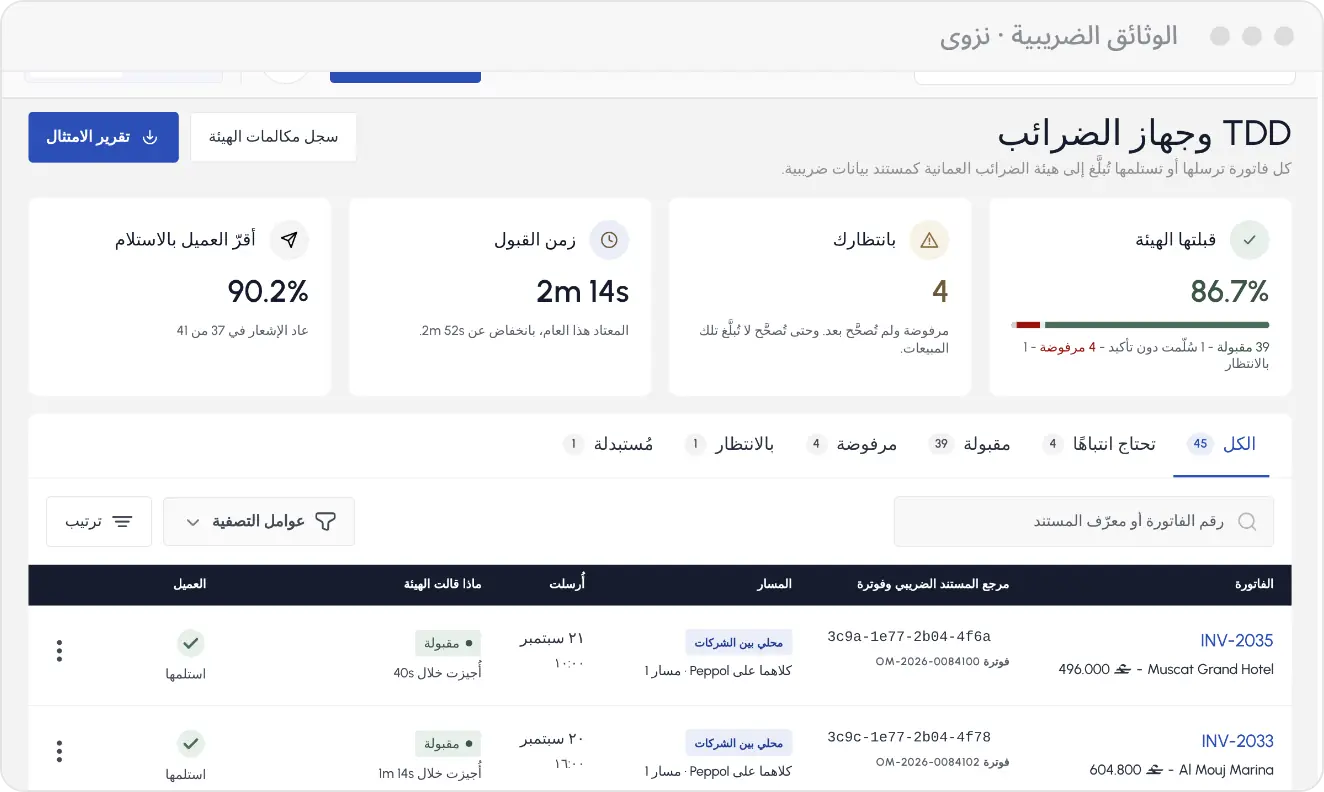
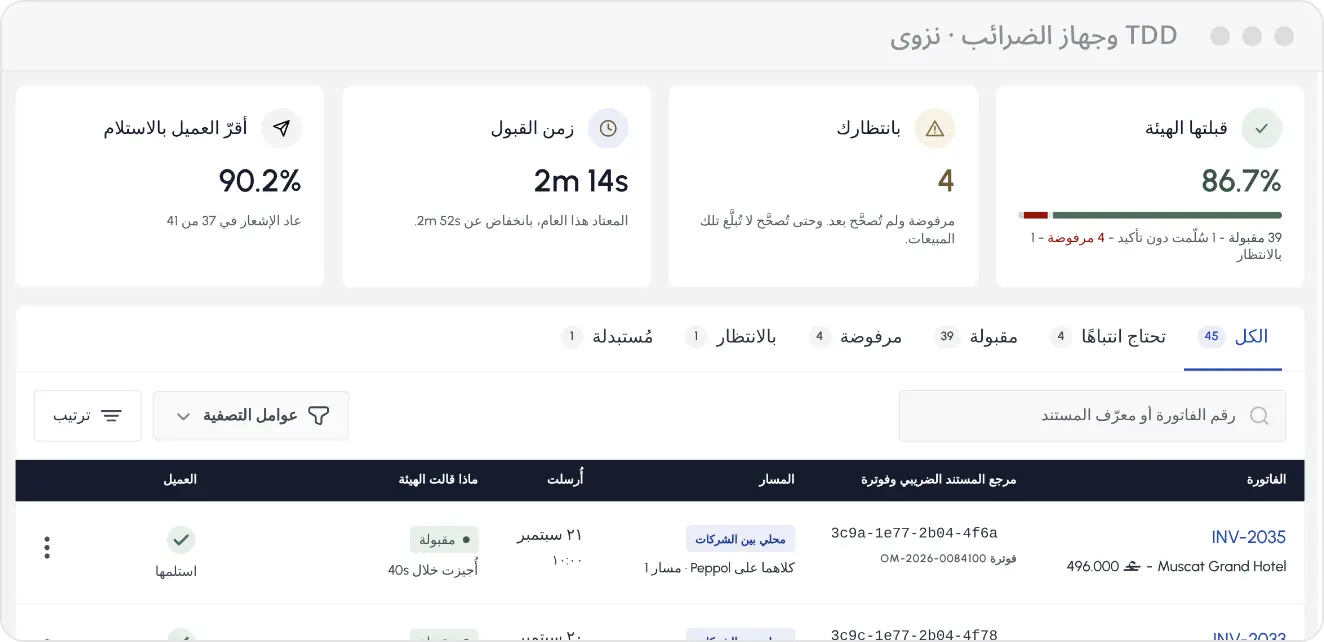
Features: real, focused screens on every row; journey and team rows
Each row now shows a cropped part of a live screen in English and Arabic instead of a whole page,
so the text stays readable. The three drawn mock-ups (invoice, find, numbers) are replaced by real
screens: an invoice's lines and totals, the invoices list with every payment state and Peppol reply,
and the dashboard. Tax Authority gains the invoice journey (reported to the OTA, delivered over
Peppol, each step timed). Company and team now shows Branches and inviting someone with a role;
the ERP diagram row is gone and ERP becomes a tile. Two invoicing claims the app does not have
(quotations, customer signature) are replaced with ones it does.

Claude-Session: https://claude.ai/code/session_01FLCAFF6j1WgFwmb84NnMZ4

diff --git a/src/pages/SitePages/FeaturesPage.tsx b/src/pages/SitePages/FeaturesPage.tsx
@@ -1,36 +1,42 @@
 import { useEffect, useRef, useState } from 'react'
 import { useTranslation } from 'react-i18next'
-import { ErpFlow } from '../HomePage/Audience'
 import { FeatureIcon } from './FeatureIcon'
 import { Steps } from '../HomePage/HomePage'
 import { QrSection } from '../HomePage/QrSection'
 import tillShot from '../../assets/site/feature-till.webp'
-import invoiceShot from '../../assets/site/feature-invoice.webp'
 import stockShot from '../../assets/site/feature-stock.webp'
-import findShot from '../../assets/site/feature-find.webp'
-import numbersShot from '../../assets/site/feature-numbers.webp'
-import billsShot from '../../assets/site/feature-bills.webp'
-import billsShotAr from '../../assets/site/feature-bills-ar.webp'
-import paymentsShot from '../../assets/site/feature-payments.webp'
-import paymentsShotAr from '../../assets/site/feature-payments-ar.webp'
-import tddShot from '../../assets/site/feature-tdd.webp'
-import tddShotAr from '../../assets/site/feature-tdd-ar.webp'
+import invoiceShot from '../../assets/site/feature-invoice.webp'
+import invoiceShotAr from '../../assets/site/feature-invoice-ar.webp'
+import invoicesShot from '../../assets/site/feature-invoices.webp'
+import invoicesShotAr from '../../assets/site/feature-invoices-ar.webp'
 import customersShot from '../../assets/site/feature-customers.webp'
 import customersShotAr from '../../assets/site/feature-customers-ar.webp'
 import periodicShot from '../../assets/site/feature-periodic.webp'
 import periodicShotAr from '../../assets/site/feature-periodic-ar.webp'
+import billsShot from '../../assets/site/feature-bills.webp'
+import billsShotAr from '../../assets/site/feature-bills-ar.webp'
+import paymentsShot from '../../assets/site/feature-payments.webp'
+import paymentsShotAr from '../../assets/site/feature-payments-ar.webp'
 import recurringShot from '../../assets/site/feature-recurring.webp'
 import recurringShotAr from '../../assets/site/feature-recurring-ar.webp'
 import supplierNotesShot from '../../assets/site/feature-supplier-notes.webp'
 import supplierNotesShotAr from '../../assets/site/feature-supplier-notes-ar.webp'
+import tddShot from '../../assets/site/feature-tdd.webp'
+import tddShotAr from '../../assets/site/feature-tdd-ar.webp'
+import journeyShot from '../../assets/site/feature-journey.webp'
+import journeyShotAr from '../../assets/site/feature-journey-ar.webp'
 import archiveShot from '../../assets/site/feature-archive.webp'
 import archiveShotAr from '../../assets/site/feature-archive-ar.webp'
+import dashboardShot from '../../assets/site/feature-dashboard.webp'
+import dashboardShotAr from '../../assets/site/feature-dashboard-ar.webp'
 import vatShot from '../../assets/site/feature-vat.webp'
 import vatShotAr from '../../assets/site/feature-vat-ar.webp'
 import cashShot from '../../assets/site/feature-cash.webp'
 import cashShotAr from '../../assets/site/feature-cash-ar.webp'
 import branchesShot from '../../assets/site/feature-branches.webp'
 import branchesShotAr from '../../assets/site/feature-branches-ar.webp'
+import teamShot from '../../assets/site/feature-team.webp'
+import teamShotAr from '../../assets/site/feature-team-ar.webp'
 import wave1 from '../../assets/site/wave-1.svg'
 import wave2 from '../../assets/site/wave-2.svg'
 import wave3 from '../../assets/site/wave-3.svg'
@@ -66,18 +72,20 @@ type RowKey =
   | 'recurring'
   | 'supplierNotes'
   | 'tdd'
+  | 'journey'
   | 'archive'
   | 'dashboard'
   | 'vatReport'
   | 'cashFlow'
-  | 'erp'
   | 'branches'
-type Row = { key: RowKey; shot?: string; shotAr?: string; wave?: string }
+  | 'team'
+type Row = { key: RowKey; shot: string; shotAr?: string; wave?: string }
+/** Every picture is a cropped live screen from the mock API, English and Arabic (owner, 4 Nov 2026). */
 const ROWS: Row[] = [
   { key: 'till', shot: tillShot, wave: wave1 },
   { key: 'stock', shot: stockShot },
-  { key: 'invoicing', shot: invoiceShot },
-  { key: 'transactions', shot: findShot, wave: wave3 },
+  { key: 'invoicing', shot: invoiceShot, shotAr: invoiceShotAr },
+  { key: 'transactions', shot: invoicesShot, shotAr: invoicesShotAr, wave: wave3 },
   { key: 'customers', shot: customersShot, shotAr: customersShotAr },
   { key: 'periodic', shot: periodicShot, shotAr: periodicShotAr, wave: wave1 },
   { key: 'bills', shot: billsShot, shotAr: billsShotAr, wave: wave2 },
@@ -85,12 +93,13 @@ const ROWS: Row[] = [
   { key: 'recurring', shot: recurringShot, shotAr: recurringShotAr, wave: wave3 },
   { key: 'supplierNotes', shot: supplierNotesShot, shotAr: supplierNotesShotAr },
   { key: 'tdd', shot: tddShot, shotAr: tddShotAr, wave: wave1 },
-  { key: 'archive', shot: archiveShot, shotAr: archiveShotAr },
-  { key: 'dashboard', shot: numbersShot },
+  { key: 'journey', shot: journeyShot, shotAr: journeyShotAr },
+  { key: 'archive', shot: archiveShot, shotAr: archiveShotAr, wave: wave2 },
+  { key: 'dashboard', shot: dashboardShot, shotAr: dashboardShotAr },
   { key: 'vatReport', shot: vatShot, shotAr: vatShotAr, wave: wave2 },
   { key: 'cashFlow', shot: cashShot, shotAr: cashShotAr },
-  { key: 'erp', wave: wave3 },
-  { key: 'branches', shot: branchesShot, shotAr: branchesShotAr },
+  { key: 'branches', shot: branchesShot, shotAr: branchesShotAr, wave: wave3 },
+  { key: 'team', shot: teamShot, shotAr: teamShotAr },
 ]
 
 type ModuleKey = 'pos' | 'invoicing' | 'expenses' | 'tax' | 'reports' | 'company'
@@ -140,7 +149,7 @@ const MODULES: { key: ModuleKey; rows: RowKey[]; tiles: Tile[] }[] = [
   },
   {
     key: 'tax',
-    rows: ['tdd', 'archive'],
+    rows: ['tdd', 'journey', 'archive'],
     tiles: [
       ['pintom', 'shield'],
       ['calllog', 'list'],
@@ -165,22 +174,21 @@ const MODULES: { key: ModuleKey; rows: RowKey[]; tiles: Tile[] }[] = [
   },
   {
     key: 'company',
-    rows: ['erp', 'branches'],
+    rows: ['branches', 'team'],
     tiles: [
-      ['roles', 'key'],
       ['approvals', 'approve'],
-      ['team', 'users'],
       ['log', 'log'],
       ['languages', 'globe'],
       ['mobile', 'phone'],
       ['export', 'download'],
+      ['erp', 'flow'],
     ],
   },
 ]
 /** The module a link lands on: its own key, or the key of a row inside it (old links). */
 function moduleFromHash(hash: string): ModuleKey {
   const id = hash.replace('#', '')
-  const old: Record<string, ModuleKey> = { filing: 'tax', qr: 'tax' }
+  const old: Record<string, ModuleKey> = { filing: 'tax', qr: 'tax', erp: 'company' }
   const found = MODULES.find((m) => m.key === id || (m.rows as string[]).includes(id))
   return found ? found.key : (old[id] ?? 'pos')
 }
@@ -335,20 +343,13 @@ function RowCopy({ rowKey }: { rowKey: RowKey }) {
 
 function Shot({ row }: { row: Row }) {
   const { t, i18n } = useTranslation()
-  if (row.key === 'erp') {
-    return (
-      <div className="relative w-full max-w-[660px] shrink-0 lg:w-[min(660px,40%)] [&>figure]:m-0 [&>figure]:p-0">
-        <ErpFlow />
-      </div>
-    )
-  }
   const ar = i18n.language.startsWith('ar')
   return (
     <img
       src={ar && row.shotAr ? row.shotAr : row.shot}
       alt={t(`site.features.${row.key}.alt`)}
       loading="lazy"
-      className="landing-sheet relative block h-auto w-full max-w-[660px] shrink-0 rounded-lg bg-white lg:w-[min(660px,40%)]"
+      className="landing-sheet relative block h-auto w-full max-w-[660px] shrink-0 rounded-lg bg-white lg:w-[min(660px,44%)]"
     />
   )
 }
